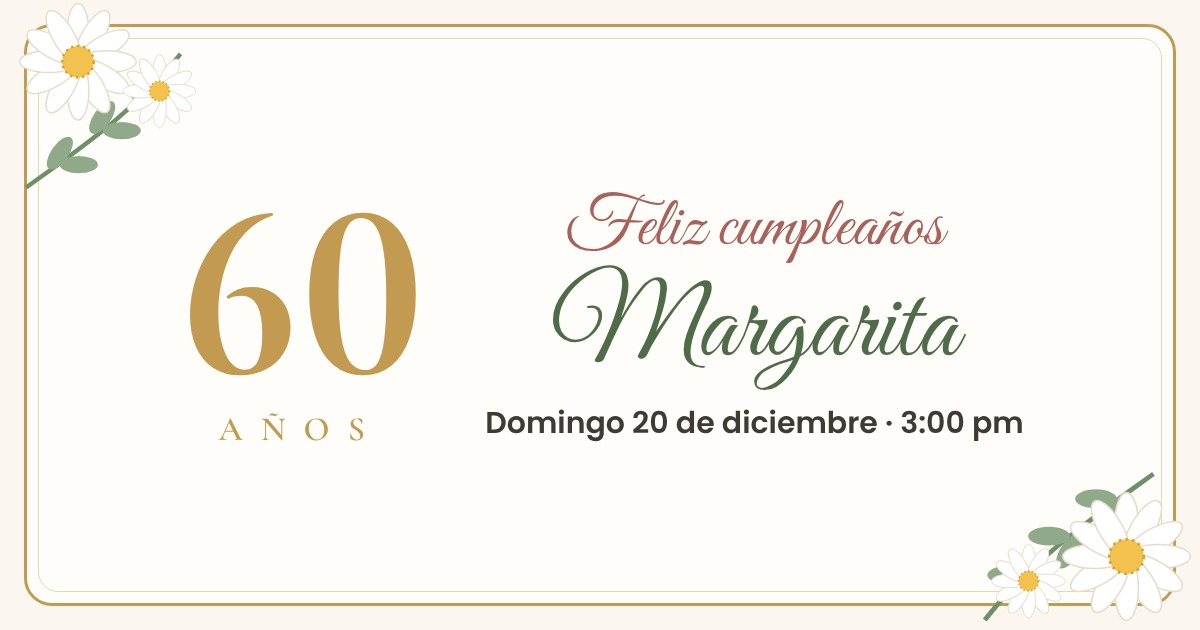
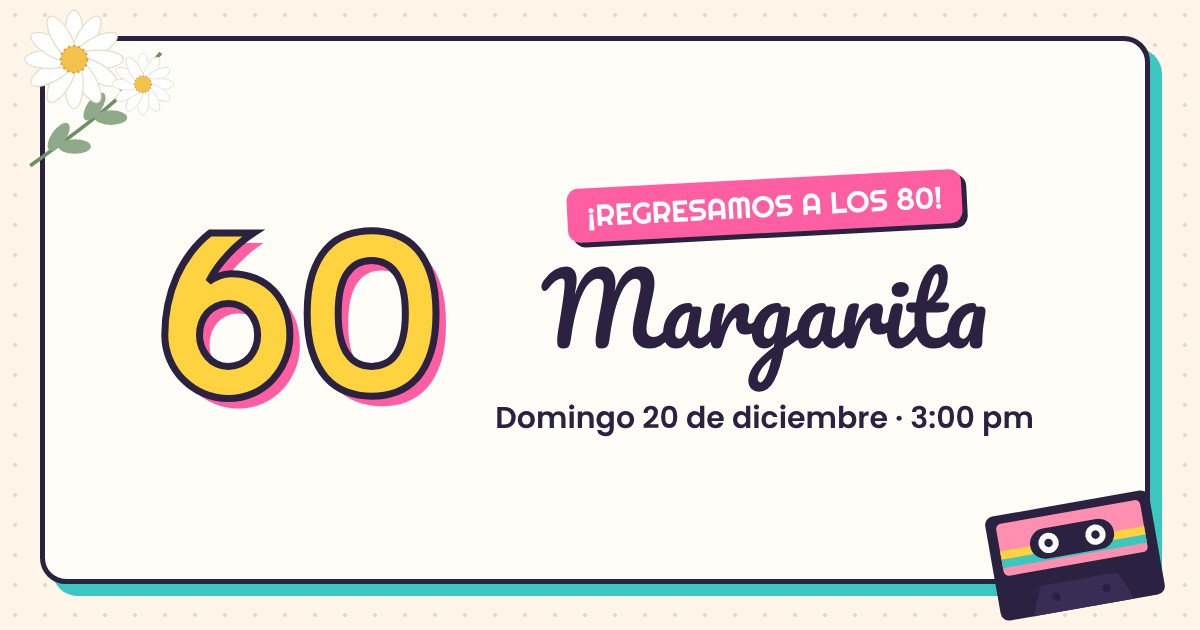
Add files via upload

diff --git a/index.html b/index.html
@@ -3,18 +3,18 @@
 <head>
 <meta charset="UTF-8">
 <meta name="viewport" content="width=device-width, initial-scale=1">
-<title>Feliz cumpleaños 60, Margarita</title>
+<title>¡Regresamos a los 80! · Los 60 de Margarita</title>
 
 <!-- Vista previa al compartir por WhatsApp (funciona al publicar en tu propio hosting) -->
-<meta property="og:title" content="¡Feliz cumpleaños 60, Margarita!">
-<meta property="og:description" content="Domingo 20 de diciembre · 3:00 pm. ¡No te lo puedes perder! Confirma tu asistencia aquí.">
+<meta property="og:title" content="¡Regresamos a los 80! Los 60 de Margarita">
+<meta property="og:description" content="Domingo 20 de diciembre · 3:00 pm. Mira el itinerario, el outfit ochentero y confirma aquí.">
 <meta property="og:image" content="https://pablo-codedioni.github.io/los60demargarita/img/portada-whatsapp.jpg">
 <meta property="og:url" content="https://pablo-codedioni.github.io/los60demargarita/">
 <meta property="og:type" content="website">
 
 <link rel="preconnect" href="https://fonts.googleapis.com">
 <link rel="preconnect" href="https://fonts.gstatic.com" crossorigin>
-<link href="https://fonts.googleapis.com/css2?family=Great+Vibes&family=Cormorant+Garamond:wght@500;600;700&family=Poppins:wght@400;500;600&display=swap" rel="stylesheet">
+<link href="https://fonts.googleapis.com/css2?family=Pacifico&family=Righteous&family=Poppins:wght@400;500;600;700&display=swap" rel="stylesheet">
 
 <style>
   :root{
@@ -105,6 +105,46 @@
   footer{text-align:center;padding:40px 20px 60px;color:var(--muted);font-size:15px}
   footer .sig{font-family:"Great Vibes",cursive;font-size:34px;color:var(--green);display:block;margin-top:4px}
   @media (max-width:380px){.sixty{font-size:120px}.name{font-size:50px}.cd b{font-size:28px}}
+
+  /* ===== Estilo ochentero (Memphis pastel) ===== */
+  :root{--cream:#fff6e9;--paper:#fffdf8;--ink:#2b2140;--muted:#6b5f80;--line:#2b2140;
+        --pink:#ff5fa2;--teal:#3cc6c0;--yellow:#ffd23f;--purple:#7b5ea7;--green:#2b2140;--rose-dk:#ff5fa2;--gold:#ffd23f;--sage:#3cc6c0}
+  body{background-color:var(--cream);background-image:radial-gradient(#ead8c3 1.6px,transparent 1.8px);background-size:26px 26px}
+  .hero{background:transparent;border-bottom:0;padding:56px 22px 70px}
+  .kick{display:inline-block;font-family:Righteous,sans-serif;font-size:19px;letter-spacing:1.5px;color:#fff;background:var(--pink);padding:8px 18px;border-radius:10px;transform:rotate(-3deg);box-shadow:4px 4px 0 var(--ink)}
+  .welcome{font-family:Righteous,sans-serif;letter-spacing:4px;color:var(--purple);margin-top:22px}
+  .feliz{font-family:Pacifico,cursive;font-size:36px;color:var(--purple)}
+  .sixty{font-family:Righteous,sans-serif;font-size:150px;color:var(--yellow);-webkit-text-stroke:5px var(--ink);text-shadow:8px 8px 0 var(--pink)}
+  .anos{font-family:Righteous,sans-serif;color:var(--ink);letter-spacing:6px}
+  .name{font-family:Pacifico,cursive;font-size:56px;color:var(--ink)}
+  .apellidos{font-family:Righteous,sans-serif;color:var(--purple);margin-top:6px}
+  .lema{font-family:Poppins,sans-serif;font-style:normal;font-weight:600;font-size:19px}
+  .date-pill{background:var(--yellow);border:3px solid var(--ink);font-weight:600;box-shadow:4px 4px 0 var(--ink)}
+  h2{font-family:Pacifico,cursive;font-size:34px;color:var(--purple)}
+  .card{border:3px solid var(--ink);border-radius:18px;box-shadow:8px 8px 0 var(--teal)}
+  .cd{border:3px solid var(--ink);box-shadow:4px 4px 0 var(--pink)}
+  .cd b{font-family:Righteous,sans-serif;color:var(--ink)}
+  .ico{background:var(--yellow);border:2px solid var(--ink)}
+  .btn{border:3px solid var(--ink);color:var(--ink);box-shadow:4px 4px 0 var(--ink)}
+  .btn.solid{background:var(--pink);color:#fff}
+  .timeline .hr{font-family:Righteous,sans-serif;font-size:20px;color:var(--pink)}
+  .nota,.reflex{font-family:Poppins,sans-serif}
+  .nota{font-style:normal;font-weight:600;color:var(--purple);font-size:18px}
+  .reflex{font-size:18px}.reflex em{font-style:normal;font-weight:700;color:var(--pink)}
+  .outfit-card{text-align:center}
+  .chips{display:flex;flex-wrap:wrap;gap:8px;justify-content:center;margin-top:14px}
+  .chip{padding:7px 14px;border-radius:999px;font-size:15px;font-weight:600;border:2px solid var(--ink)}
+  .chip:nth-child(4n+1){background:#ffd6e7}.chip:nth-child(4n+2){background:#c9f1ee}.chip:nth-child(4n+3){background:#fff0b3}.chip:nth-child(4n){background:#e4dbf3}
+  .opt{border:3px solid var(--ink)}
+  .opt.on.si{background:#c9f1ee;color:var(--ink);border-color:var(--ink);box-shadow:4px 4px 0 var(--teal)}
+  .opt.on.no{background:#ffd6e7;color:var(--ink);border-color:var(--ink)}
+  .stepper button{border:3px solid var(--ink);color:var(--ink);background:var(--yellow)}
+  .stepper output{font-family:Righteous,sans-serif}
+  input[type=text],textarea{border:2px solid var(--ink)}
+  .deadline{background:#fff0b3;border:2px solid var(--ink);color:var(--ink);font-weight:500}
+  #gracias .big{font-family:Pacifico,cursive;color:var(--pink)}
+  footer .sig{font-family:Pacifico,cursive;color:var(--purple)}
+  .deco{position:absolute;pointer-events:none}
 </style>
 </head>
 <body>
@@ -136,6 +176,13 @@
       <use href="#margarita" x="62" y="2" width="36" height="36"/>
       <use href="#rama" x="96" y="8" width="64" height="32"/>
     </symbol>
+    <symbol id="casete" viewBox="0 0 200 128">
+      <rect x="2" y="2" width="196" height="124" rx="10" fill="#2b2140"/><rect x="14" y="12" width="172" height="62" rx="6" fill="#ff8fb1"/>
+      <rect x="14" y="44" width="172" height="10" fill="#ffd23f"/><rect x="14" y="54" width="172" height="10" fill="#3cc6c0"/>
+      <rect x="50" y="26" width="100" height="36" rx="18" fill="#2b2140"/><circle cx="72" cy="44" r="12" fill="#fff"/><circle cx="128" cy="44" r="12" fill="#fff"/>
+      <circle cx="72" cy="44" r="5" fill="#2b2140"/><circle cx="128" cy="44" r="5" fill="#2b2140"/><path d="M40 126 L54 92 H146 L160 126" fill="#3a2d55"/>
+    </symbol>
+    <symbol id="zigzag" viewBox="0 0 120 24"><path d="M2 20 L17 4 L32 20 L47 4 L62 20 L77 4 L92 20 L107 4 L118 16" fill="none" stroke-width="6" stroke-linecap="round" stroke-linejoin="round"/></symbol>
   </defs>
 </svg>
 
@@ -150,6 +197,11 @@
     <use href="#margarita" x="80" y="40" width="76" height="76"/><use href="#margarita" x="40" y="70" width="44" height="44"/>
   </svg>
 
+  <svg class="deco" style="top:26px;right:22px" width="110" height="22"><use href="#zigzag" stroke="#3cc6c0"/></svg>
+  <svg class="deco" style="top:120px;right:26px" width="40" height="40" viewBox="0 0 100 100"><polygon points="50,8 94,90 6,90" fill="#ffd23f" stroke="#2b2140" stroke-width="8"/></svg>
+  <svg class="deco" style="top:330px;left:16px" width="38" height="38"><circle cx="19" cy="19" r="14" fill="none" stroke="#7b5ea7" stroke-width="6"/></svg>
+  <svg class="deco" style="bottom:4px;left:14px;transform:rotate(-12deg)" width="80" height="52"><use href="#casete"/></svg>
+  <div class="kick">¡REGRESAMOS A LOS 80!</div>
   <p class="welcome">BIENVENIDOS</p>
   <p class="feliz">Feliz cumpleaños</p>
   <p class="sixty">60</p>
@@ -210,7 +262,7 @@
       <ul class="timeline">
         <li><span class="hr">3:00 pm</span><svg class="dot" width="26" height="26"><use href="#margarita"/></svg><span class="txt"><b>Recepción</b><small>Bienvenida y comida</small></span></li>
         <li><span class="hr">6:00 pm</span><svg class="dot" width="26" height="26"><use href="#margarita"/></svg><span class="txt"><b>Partida de pastel</b><small>Mañanitas y brindis</small></span></li>
-        <li><span class="hr">Después</span><svg class="dot" width="26" height="26"><use href="#margarita"/></svg><span class="txt"><b>Música para disfrutar</b><small>Con lo mejor de los 80</small></span></li>
+        <li><span class="hr">Después</span><svg class="dot" width="26" height="26"><use href="#margarita"/></svg><span class="txt"><b>Música ochentera para disfrutar</b><small>¡A bailar con lo mejor de los 80!</small></span></li>
       </ul>
       <p class="nota">Toma tu tiempo, ven a disfrutar</p>
     </div>
@@ -225,7 +277,22 @@
       <div class="pol"><img src="img/foto1.jpg" alt="Foto de grupo de los años 80 en el bosque"><span>Los 80</span></div>
       <div class="pol"><img src="img/foto2.jpg" alt="Otra foto de grupo de los años 80"><span>Buenos tiempos</span></div>
     </div>
-    <p class="dress">Si te animas, ven con un toque <b>ochentero</b>: mezclilla, colores vivos o tu peinado de la época.</p>
+
+  </section>
+
+  <!-- ============ OUTFIT ============ -->
+  <section>
+    <h2>Outfit ochentero</h2>
+    <p class="sub">¡Ven vestido como en los 80! Entre más ochentero, mejor</p>
+    <div class="card outfit-card">
+      <svg width="120" height="77" style="display:block;margin:0 auto"><use href="#casete"/></svg>
+      <div class="chips">
+        <span class="chip">Colores neón</span><span class="chip">Hombreras</span><span class="chip">Mezclilla deslavada</span>
+        <span class="chip">Peinados con volumen</span><span class="chip">Chamarras de colores</span><span class="chip">Diademas y muñequeras</span>
+        <span class="chip">Lentes de colores</span><span class="chip">Tenis blancos</span>
+      </div>
+      <p class="nota">¡Saca lo mejor de tu clóset ochentero!</p>
+    </div>
   </section>
 
   <!-- ============ CONFIRMACIÓN ============ -->
